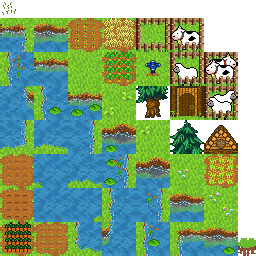
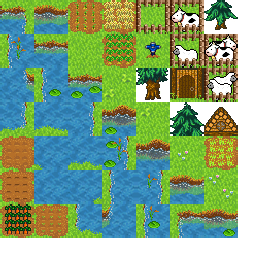
added smol tree sprite, pasture requires 4 wood to build, fixed breed not removing animals from inventory

diff --git a/core/src/com/pi4/mgmtgame/screens/MainGameScreen.java b/core/src/com/pi4/mgmtgame/screens/MainGameScreen.java
@@ -252,6 +252,8 @@ public class MainGameScreen implements Screen	{
 	private void updateSelection() {
 		Vector3 vec = new Vector3(Gdx.input.getX(), Gdx.input.getY(), 0);
 		stage.getCamera().unproject(vec);
+		if (map == null)
+			return;
 		if(vec.x / ManagementGame.TILE_SIZE < map.getMapWidth() && vec.x > 0 && vec.y / ManagementGame.TILE_SIZE < map.getMapHeight() && vec.y > 0) {
 			this.selectSquare.setVisible(true);
 			this.selectSquare.setX((int)(vec.x / ManagementGame.TILE_SIZE)*ManagementGame.TILE_SIZE);
@@ -314,13 +316,19 @@ public class MainGameScreen implements Screen	{
 	private synchronized void updateOverlay() {
 		decorationStage.clear();
 		ownerColoredSquares.clear();
+		if (map == null)
+			return;
 		for(int x=0; x<map.getMapWidth(); x++) {
 			for(int y=0; y<map.getMapHeight(); y++) {
 				Structure struct = map.getStructAt(x, y);
 				Environment env = map.getEnvironmentAt(x, y);
 				if (struct != null) {
-					if (struct instanceof TreeField && ((TreeField)struct).hasSeedGrown()) {
-						Image treeTop = new Image(manager.get("blocks/arbre_haut.png", Texture.class));
+					if (struct instanceof TreeField) {
+						Image treeTop;
+						if (((TreeField)struct).hasSeedGrown())
+							treeTop = new Image(manager.get("blocks/arbre_haut.png", Texture.class));
+						else
+							treeTop = new Image(manager.get("blocks/petit_arbre_haut.png", Texture.class));
 						treeTop.setX(x*ManagementGame.TILE_SIZE);
 						treeTop.setY((y+1)*ManagementGame.TILE_SIZE);
 						decorationStage.addActor(treeTop);

diff --git a/core/src/com/pi4/mgmtgame/blocks/Environment.java b/core/src/com/pi4/mgmtgame/blocks/Environment.java
@@ -99,7 +99,7 @@ public abstract class Environment extends Block {
                     buttonPasture.addListener(new HoverListener() {
                         @Override
                         public void enter(InputEvent event, float x, float y, int pointer, Actor fromActor) {
-                            MainGameScreen.mouseLabelText = "Build a pasture\nBreed sheep and cows to get meat, wool and leather.\nCost: $"+pasture.getConstructionCost();
+                            MainGameScreen.mouseLabelText = "Build a pasture\nBreed sheep and cows to get meat, wool and leather.\nCost: $"+pasture.getConstructionCost()+", 4 woods";
                         }
                     });
                     buttonTree.addListener(new HoverListener() {

diff --git a/core/src/com/pi4/mgmtgame/blocks/Pasture.java b/core/src/com/pi4/mgmtgame/blocks/Pasture.java
@@ -32,8 +32,8 @@ public class Pasture extends Structure{
 		this.growingState = 1;
 		setSpriteName("pasture_empty");
 
-		constructionCost = 1000;
-		salvageBenefit = 330;
+		constructionCost = 600;
+		salvageBenefit = 400;
 	}
 
 	@Override
@@ -186,11 +186,13 @@ public class Pasture extends Structure{
 
 	@Override
 	public boolean canBuild(Inventory inv) {
-		return true;
+		return (inv.getPlants()[3].getVolume() >= 4);
 	}
 
 	@Override
-	public void doBuild(Inventory inv) {}
+	public void doBuild(Inventory inv) {
+		inv.removePlant(3, 4);
+	}
 
 	@Override
 	public String toString() {

diff --git a/core/src/com/pi4/mgmtgame/ManagementGame.java b/core/src/com/pi4/mgmtgame/ManagementGame.java
@@ -52,6 +52,7 @@ public class ManagementGame extends Game {
 		manager.load("square.png", Texture.class);
 		manager.load("select.png", Texture.class);
 		manager.load("blocks/arbre_haut.png", Texture.class);
+		manager.load("blocks/petit_arbre_haut.png", Texture.class);
 		manager.load("blocks/QG-2.png", Texture.class);
 		manager.load("blocks/enclos_haut.png", Texture.class);
 		manager.finishLoading();

diff --git a/core/src/com/pi4/mgmtgame/networking/Server.java b/core/src/com/pi4/mgmtgame/networking/Server.java
@@ -791,6 +791,7 @@ public class Server {
 		if (canBreed(x, y, animalID)) {
 			Pasture pasture = (Pasture) map.getStructAt(x, y);
 			pasture.breedAnimal(getInventory().getAnimals()[animalID]);
+			getInventory().removeAnimal(animalID, 1);
 			return true;
 		}
 		return false;
